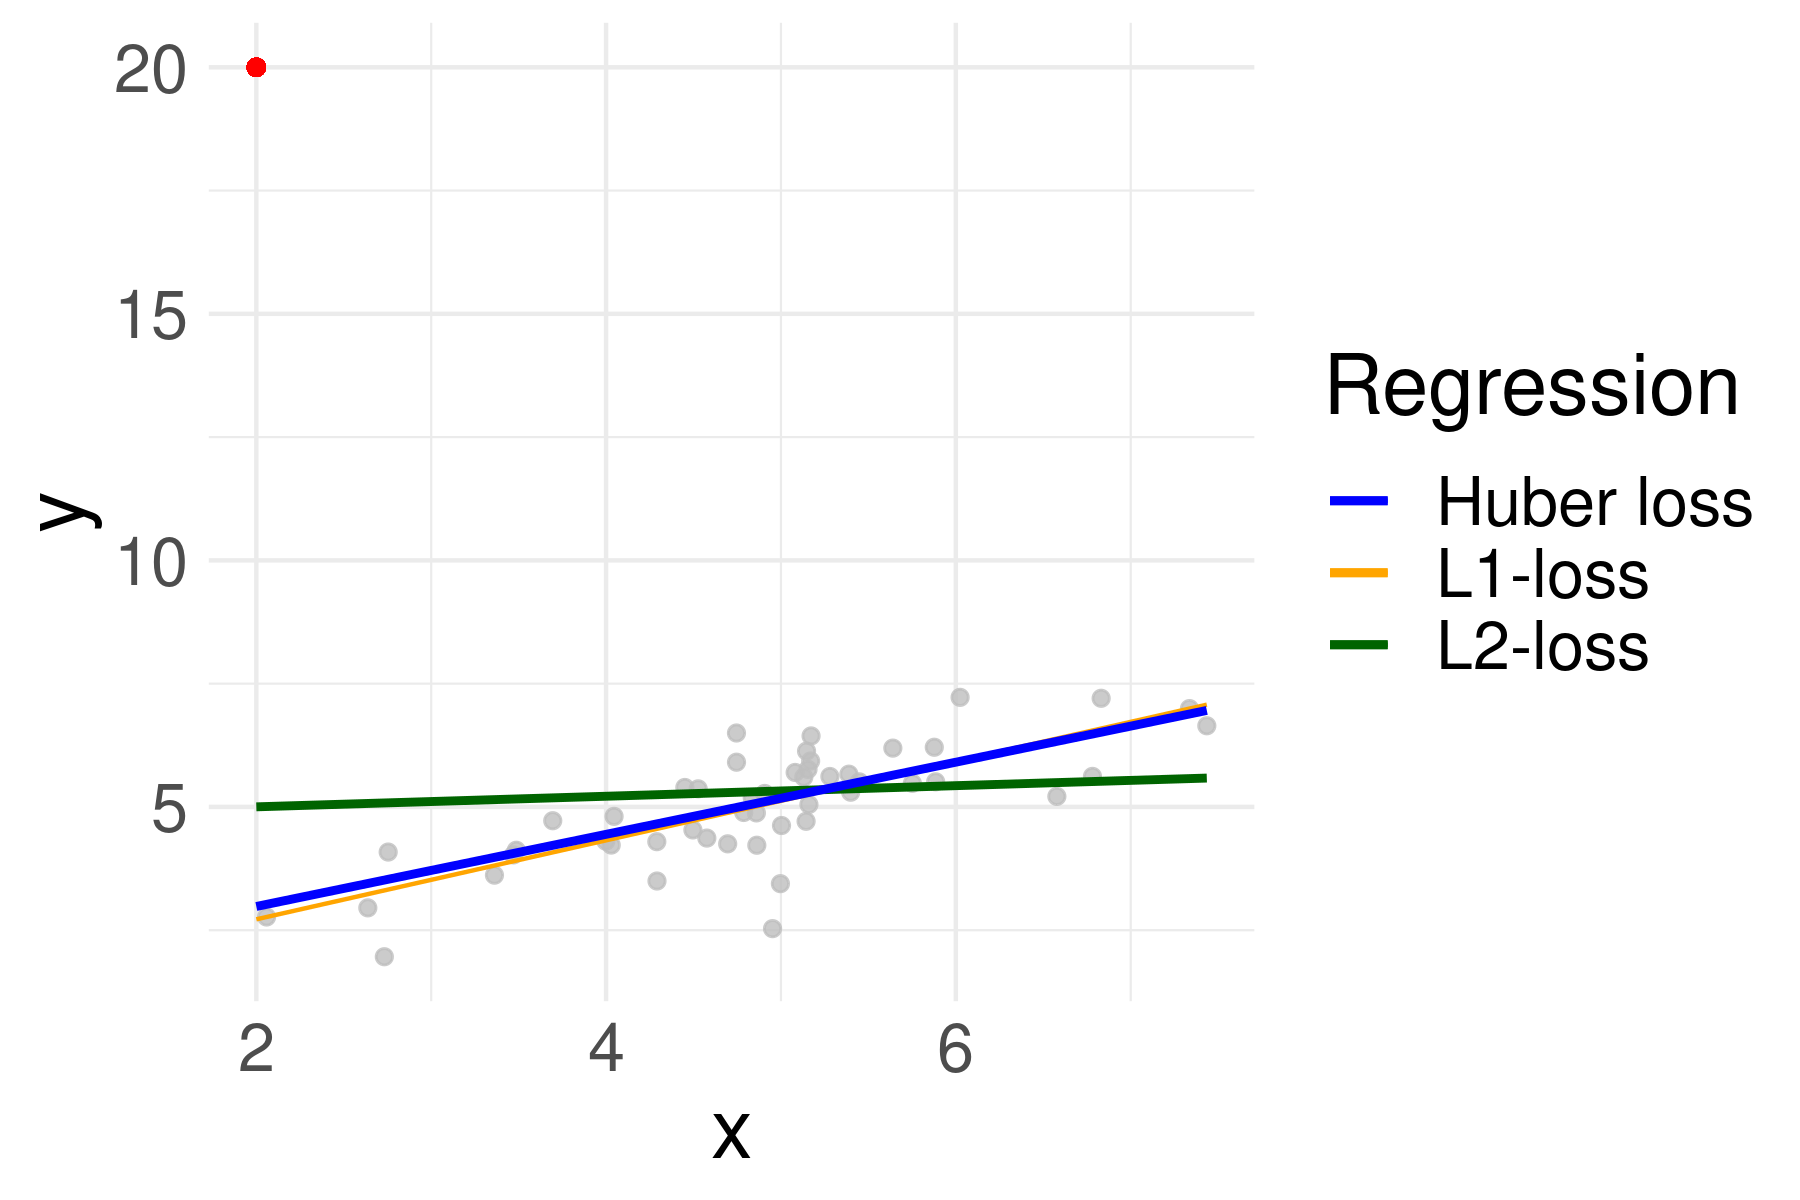
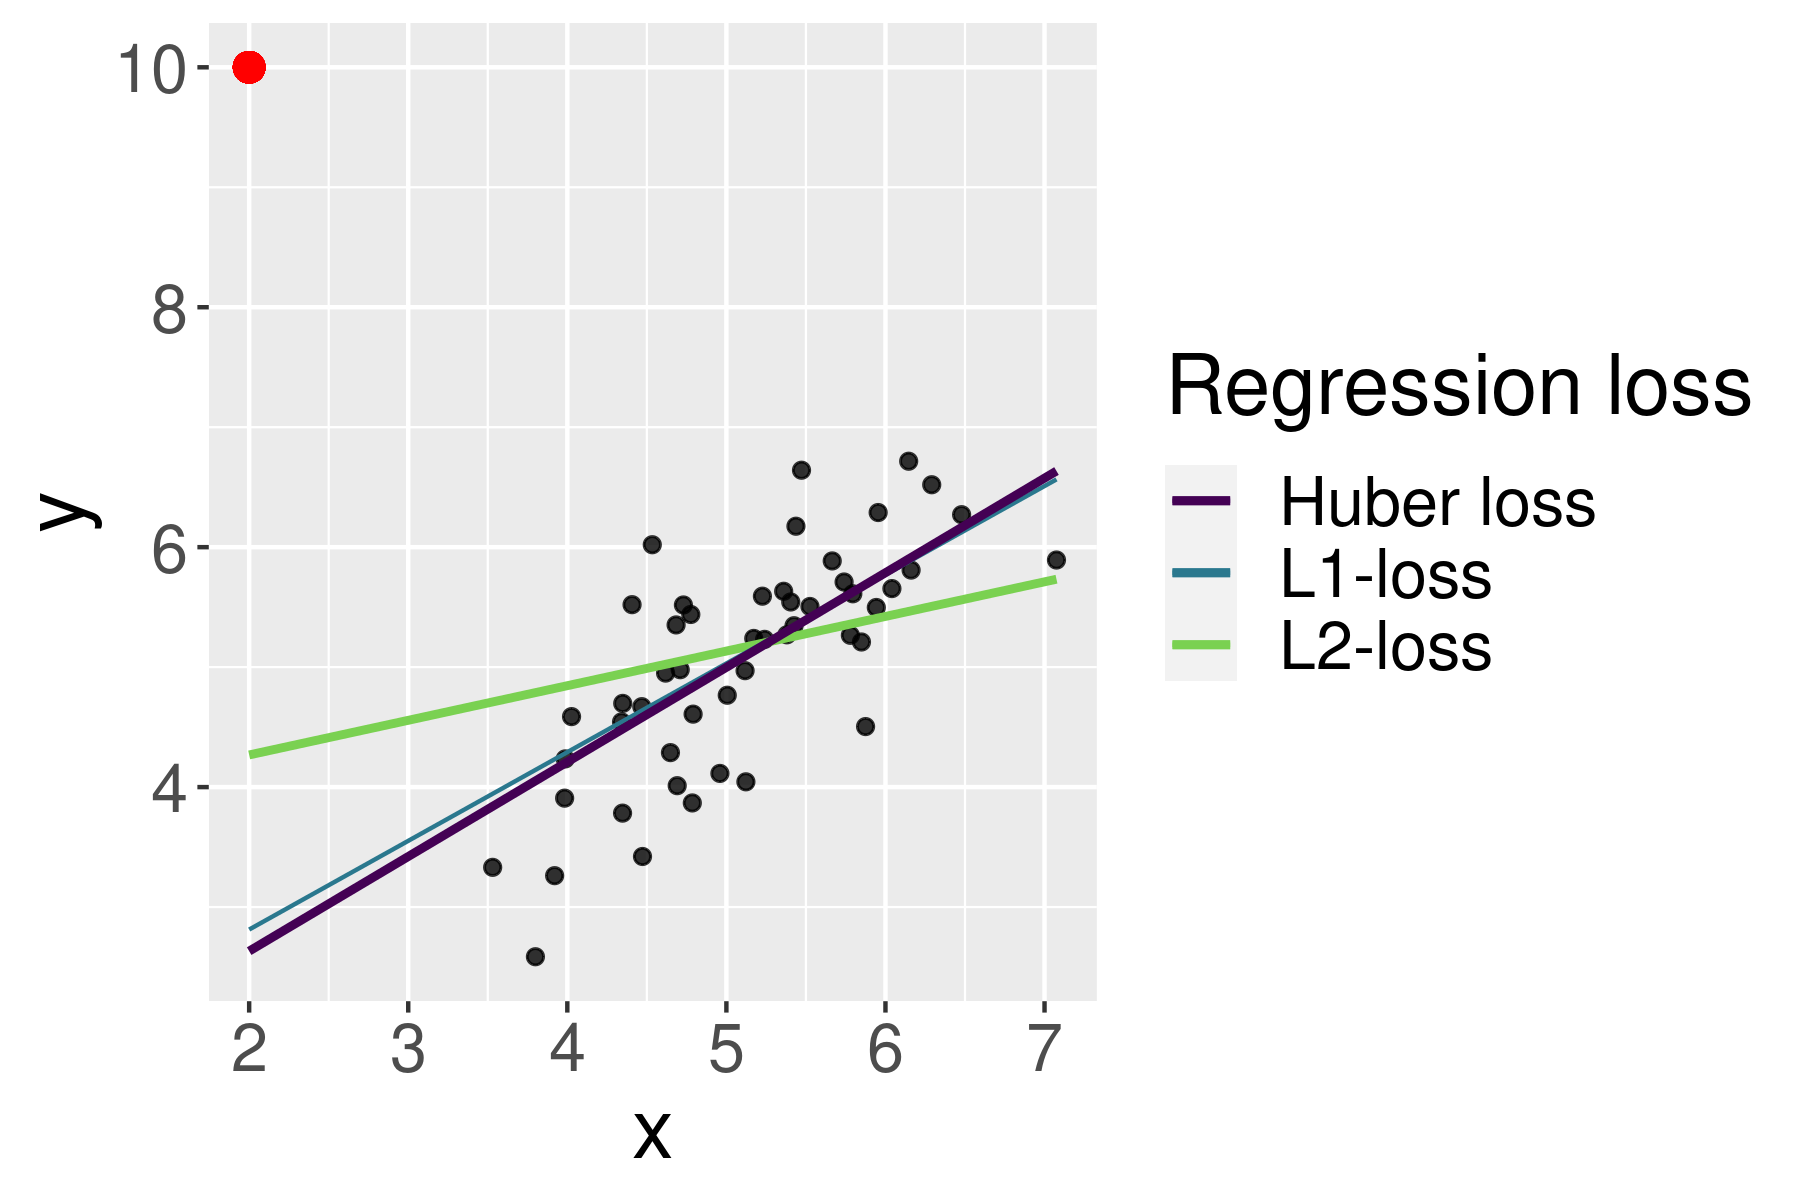
put robustness on onde slide and adjusted fig

diff --git a/slides/advriskmin/slides-advriskmin-losses-properties.tex b/slides/advriskmin/slides-advriskmin-losses-properties.tex
@@ -100,30 +100,57 @@ is influenced by the choice of the loss function.
 
 \begin{vbframe}{Robustness}
 
-Outliers (in $y$) have large residuals $r = y - \fx$. For some losses large residuals have a much bigger impact on the risk much more than for other losses. 
+\small
 
-\begin{table}[]
-\begin{tabular}{lllll}
-\toprule
-$y$  & $\fxh$ & L1 & L2 & Huber ($\eps = 5$) \\ \midrule 
-1 & 0 & 1 & 1 & 0.5 \\ 
-5 & 0 & 5 & 25 & 12.5 \\ 
-10 & 0 & 10 & 100 & 37.5 \\ 
-50 & 0 & 50 & 2500  & 237.5 \\ \bottomrule
+Outliers (in $y$) have large residuals $r = y - \fx$. For some losses large residuals have a much bigger impact on the risk than other losses. 
+
+\vspace{0.5cm}
+
+\begin{minipage}[c]{0.55\textwidth}
+  \footnotesize
+  \begin{table}[]
+  \begin{tabular}{r|r|r|r}
+  \toprule
+  $y - \fxh$ & L1 & L2 & Huber ($\eps = 5$) \\ \hline
+  1 & 1 & 1 & 0.5 \\
+  5 & 5 & 25 & 12.5 \\
+  10 & 10 & 100 & 37.5 \\
+  50 & 50 & 2500  & 237.5
 \end{tabular}
 \end{table}
+\end{minipage}%
+\begin{minipage}[c]{0.05\textwidth}
+  \phantom{foo}
+\end{minipage}%
+\begin{minipage}[c]{0.4\textwidth}
+  \small
+  As a consequence, a model is less influenced by outliers than by inliers if 
+  the loss is \textbf{robust}.
+\end{minipage}%
 
-As a consequence, a model is less influenced by outliers than by inliers if the loss is robust. 
+\vfill
 
-\textcolor{blue}{merge with subsequent slide}
+\begin{minipage}[c]{0.55\textwidth}
+  \includegraphics[width=\textwidth]{figure/robustness}
+  \footnotesize \centering
+\end{minipage}%
+\begin{minipage}[c]{0.05\textwidth}
+  \phantom{foo}
+\end{minipage}%
+\begin{minipage}[c]{0.4\textwidth}
+  \small \raggedright
+  $L2$ is an example for a loss function that is not very robust towards
+  outliers. It penalizes large residuals more than $L1$ or Huber loss, which are
+  considered robust.
+\end{minipage}%
 
-\framebreak 
-
-The L2 loss is an example for a loss function that is not very robust towards outliers. It penalizes large residuals more than the L1 or the Huber loss. The L1 and the Huber loss are thus regarded robust. 
-
-\begin{center}
-\includegraphics[width=0.8\textwidth]{figure/robustness.png}
-\end{center}
+% \framebreak 
+% 
+% The L2 loss is an example for a loss function that is not very robust towards outliers. It penalizes large residuals more than the L1 or the Huber loss. The L1 and the Huber loss are thus regarded robust. 
+% 
+% \begin{center}
+% \includegraphics[width=0.8\textwidth]{figure/robustness.png}
+% \end{center}
 
 \end{vbframe}
 
